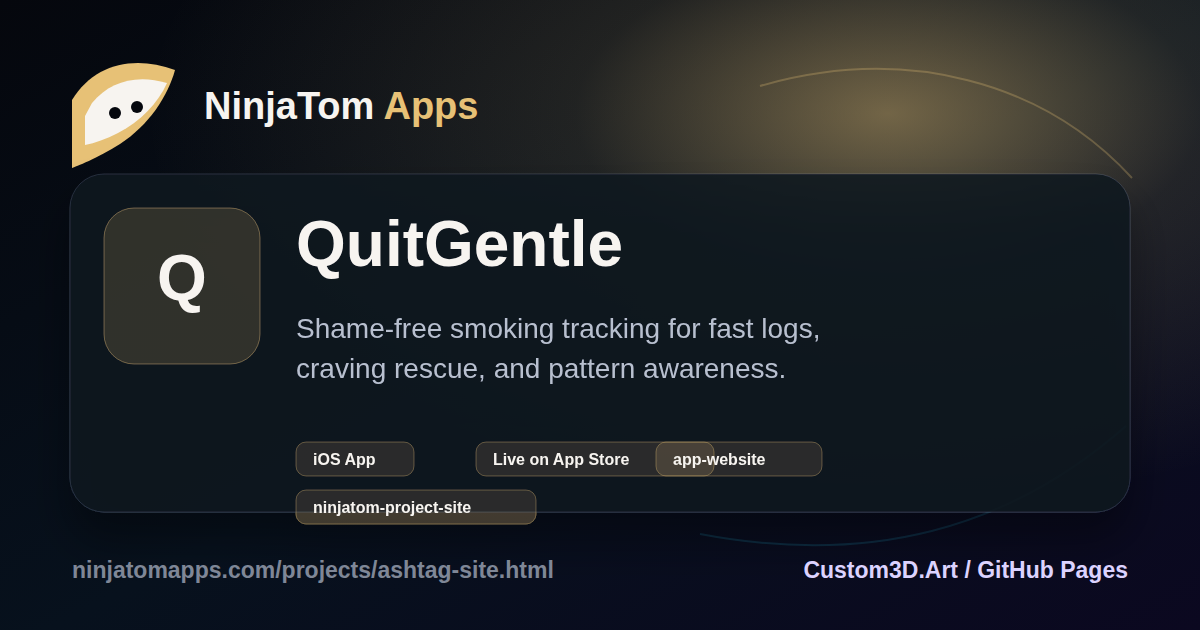
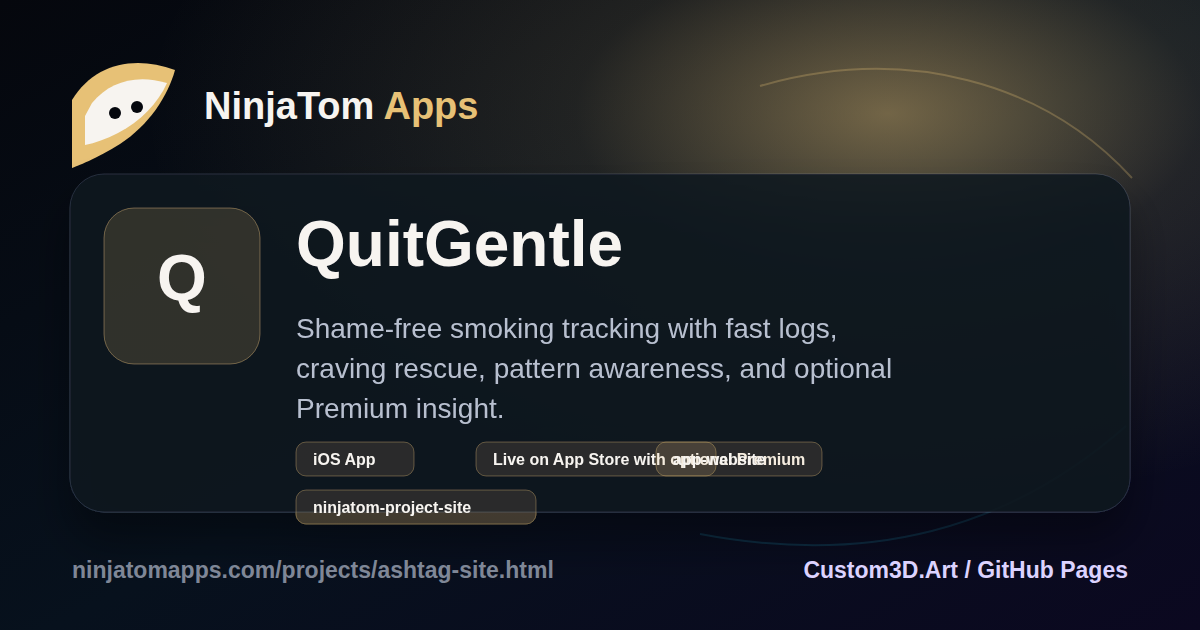
chore: refresh project index [skip ci]

diff --git a/projects/ashtag-site.html b/projects/ashtag-site.html
@@ -4,10 +4,10 @@
     <meta charset="utf-8">
     <meta name="viewport" content="width=device-width, initial-scale=1">
     <title>QuitGentle | NinjaTom Apps</title>
-    <meta name="description" content="Shame-free smoking tracking for fast logs, craving rescue, and pattern awareness.">
+    <meta name="description" content="Shame-free smoking tracking with fast logs, craving rescue, pattern awareness, and optional Premium insight.">
     <link rel="canonical" href="https://ninjatomapps.com/projects/ashtag-site.html">
     <meta property="og:title" content="QuitGentle | NinjaTom Apps">
-    <meta property="og:description" content="Shame-free smoking tracking for fast logs, craving rescue, and pattern awareness.">
+    <meta property="og:description" content="Shame-free smoking tracking with fast logs, craving rescue, pattern awareness, and optional Premium insight.">
     <meta property="og:type" content="website">
     <meta property="og:url" content="https://ninjatomapps.com/projects/ashtag-site.html">
     <meta property="og:site_name" content="NinjaTom Apps">
@@ -19,7 +19,7 @@
     <meta property="og:image:alt" content="QuitGentle project card for NinjaTom Apps.">
     <meta name="twitter:card" content="summary_large_image">
     <meta name="twitter:title" content="QuitGentle | NinjaTom Apps">
-    <meta name="twitter:description" content="Shame-free smoking tracking for fast logs, craving rescue, and pattern awareness.">
+    <meta name="twitter:description" content="Shame-free smoking tracking with fast logs, craving rescue, pattern awareness, and optional Premium insight.">
     <meta name="twitter:image" content="https://ninjatomapps.com/assets/project-og/ashtag-site.png">
     <meta http-equiv="refresh" content="0; url=https://ninjatomapps.com/#project/ashtag-site">
     <script>window.location.replace("https://ninjatomapps.com/#project/ashtag-site");</script>
